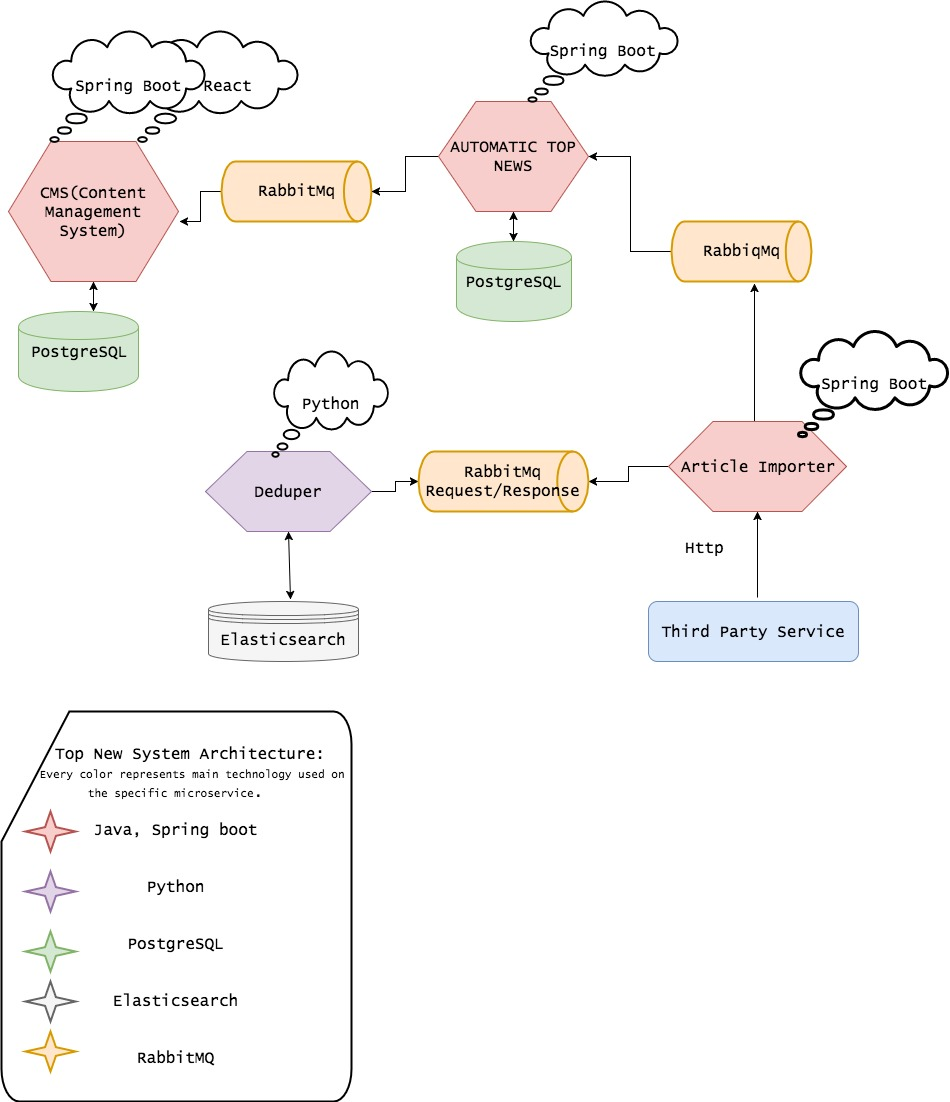
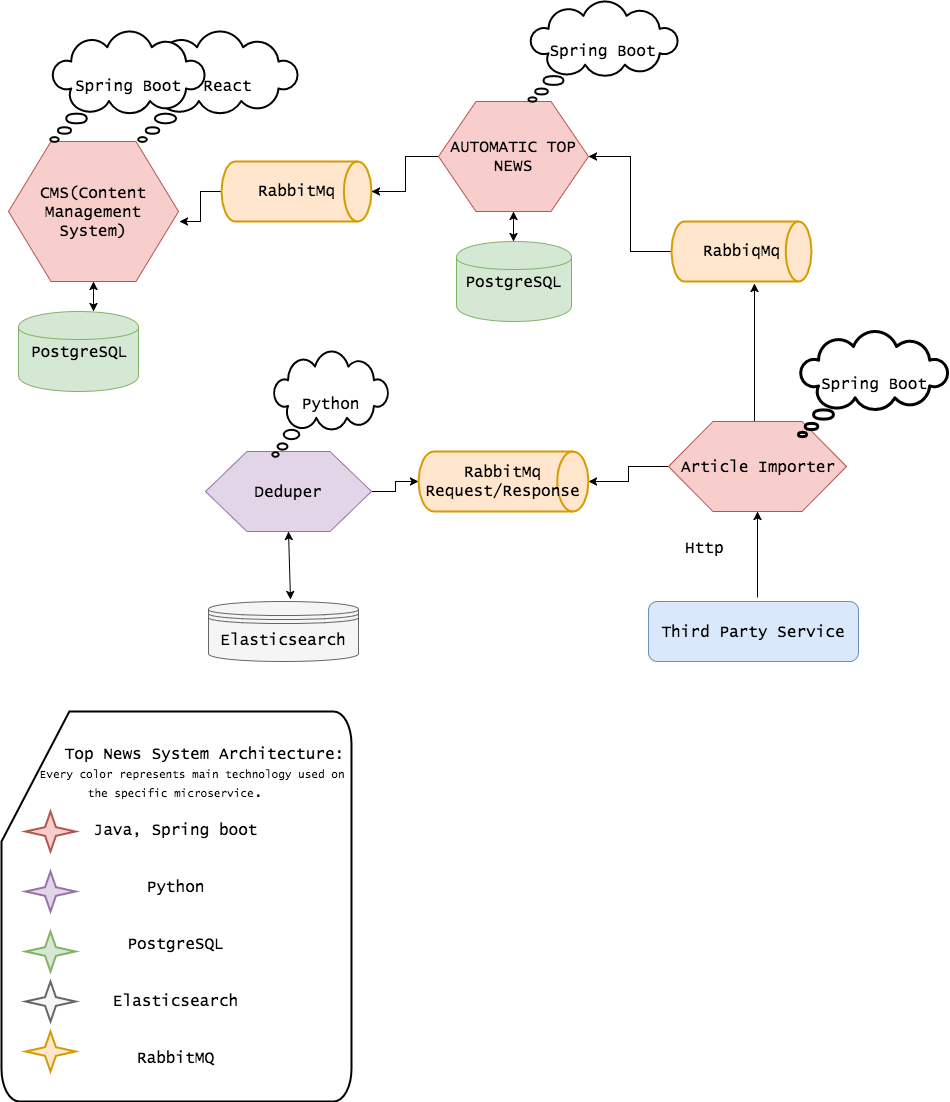
last changes after final code reviews

diff --git a/_posts/blog/2017-08-04-upday_architecture.md b/_posts/blog/2017-08-04-upday_architecture.md
@@ -4,37 +4,42 @@ title: "Finding yourself in backend architectural world"
 modified:
 categories: blog
 author: maria_fernandez_pajares
-excerpt: A small description of upday architecture changes since we are there
+excerpt: Our journey through the world of backend architecture in a few words.
 tags: [architecture, microservices, backend]
 image:
-date: 2017-08-4T10:55:55-04:00
+date: 2017-08-04T10:55:55+2
 ---
 
 I have always wanted to write about our journey through the world of backend architectures. As Mel Conway’s well predicted and nowadays is being proved his Conway’s law, a backend architecture is a reflection of the team setup. I have to admit he is not wrong at all. Actually he is mainly right. However, I think that with the time it may become the other way around whereby the architecture shapes the team instead of the team shaping the architecture.
+
 ### Our firsts architectural steps
 
 For us, it started with a small team of developers tasked with creating a robust solution to fulfill our client’s requirements of reliability and providing good quality content to our readers. So as in each and every startup, everything started fast and in a rush. Consequently, the best solution finally consisted of two monolithic components written in Java and Spring Boot. Both of them being at the core of our system. They were not the only ones. We also had other smaller components written in Ruby or Java, which took care of other requirements. When these worked properly and were production ready, we went live with them.
+
 ### When our architecture started to have flows
-* However, when our company started growing, it was impossible to stick to only one big team of backend developers. 
->>  - We started splitting our backend team into feature teams. This was not a useful setup at that time, given these two big components that had to be touched by each team every time a new feature was added.
-* When you have something stable and working, it is scary to start rewriting it but it’s important to start sooner rather than later to avoid getting to the point of no return.
->> - With this in mind, we started to step into the microservices world, to make life for us developers easier (and of course more challenging, fun and efficient). For sure there’s a difference in adding one small field to a 50,000-lines-of-code monster and touching 1,000 different unit and integration tests, than doing the same in a small service. The reviewer will be the first one to be thankful for that.
+> - However, when our company started growing, it was impossible to stick to only one big team of backend developers. 
+
+We started splitting our backend team into feature teams. This was not a useful setup at that time, given these two big components that had to be touched by each team every time a new feature was added.
+
+> - When you have something stable and working, it is scary to start rewriting it but it’s important to start sooner rather than later to avoid getting to the point of no return.
+
+With this in mind, we started to step into the microservices world, to make life for us developers easier (and of course more challenging, fun and efficient). For sure there’s a difference in adding one small field to a 50,000-lines-of-code monster and touching 1,000 different unit and integration tests, than doing the same in a small service. The reviewer will be the first one to be thankful for that.
 
 ### Where to draw the technologies diversity line
 Once living in this wonderful and interesting microservices world, it was nice to have the opportunity to use new technologies without being restricted to just the original services. However, not everything is pink and full of rainbows in the microservices world. You have to know when to stop creating new microservices or adding more and more new technologies to your stack. Because your team - for which members could always change - has to continue maintaining and understanding this zoo of services and underlying technologies. 
 
 Like everything in life: you have to find a balance. Since everyone has different opinions, there is no one perfect solution. Also, something that is en vogue now may not be the perfect solution forever. It might be that the best approach for your team is having less services and one single technology. Or it may be that applying different technologies and trying new ones is what the developers want to do, because they are hungry to learn and face new challenges. Whatever the situation, just don’t underestimate what your product really requires.
 
-### Our architecture today perfect solution
+### Our architecture today's perfect solution
 As a team of young developers who strive for challenges, we have evolved into our current setup where we have better small services but never create a microservice for the sake of creating a microservice only when there are reasons to go for a new one, and as it seems to work quite well for both our developers and our product.
 
 Our Android app has two main parts: the _Top News section_ (news everyone needs to know about) and the _My News section_ (based on the user’s interests and their interactions with our app). We decided to keep them separated and independent, basing their communication only through messaging, taking this decision from the **SCS** (Self Contained Systems). So when there is any problem related with _Top News_, _My News_ is not affected and the other way around. This is how currently our architecture from a bird’s eye view (very high level overview) looks like:
 
-<img style="margin: auto; margin-left: 25%; margin-top: 10px;" src="/images/blog/upday_architecture/high-level_arch_overview.jpg"/><br/>
+<img style="margin: auto; margin-left: 15%; margin-top: 10px;" src="/images/blog/upday_architecture/high-level_arch_overview.jpg"/><br/>
 
 And here is an overview of the components (microservices) developed with different technologies being part of **Top News System**:
 
-<img style="margin: auto; margin-left: 25%; margin-top: 10px;" src="/images/blog/upday_architecture/microservices_top_news_system"/><br/>
+<img style="margin: auto; margin-left: 2%; margin-top: 10px;" src="/images/blog/upday_architecture/microservices_top_news_system.jpg"/><br/>
 
 
 ### Our learning and conclusions so far
